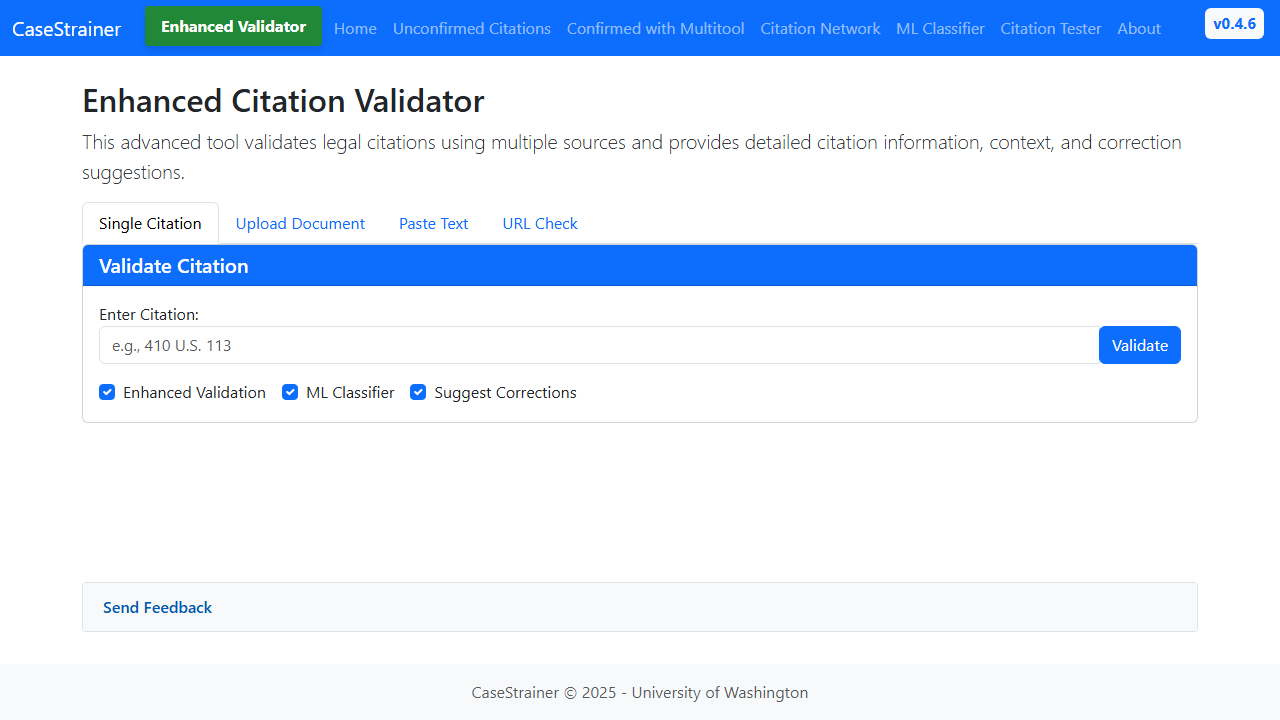
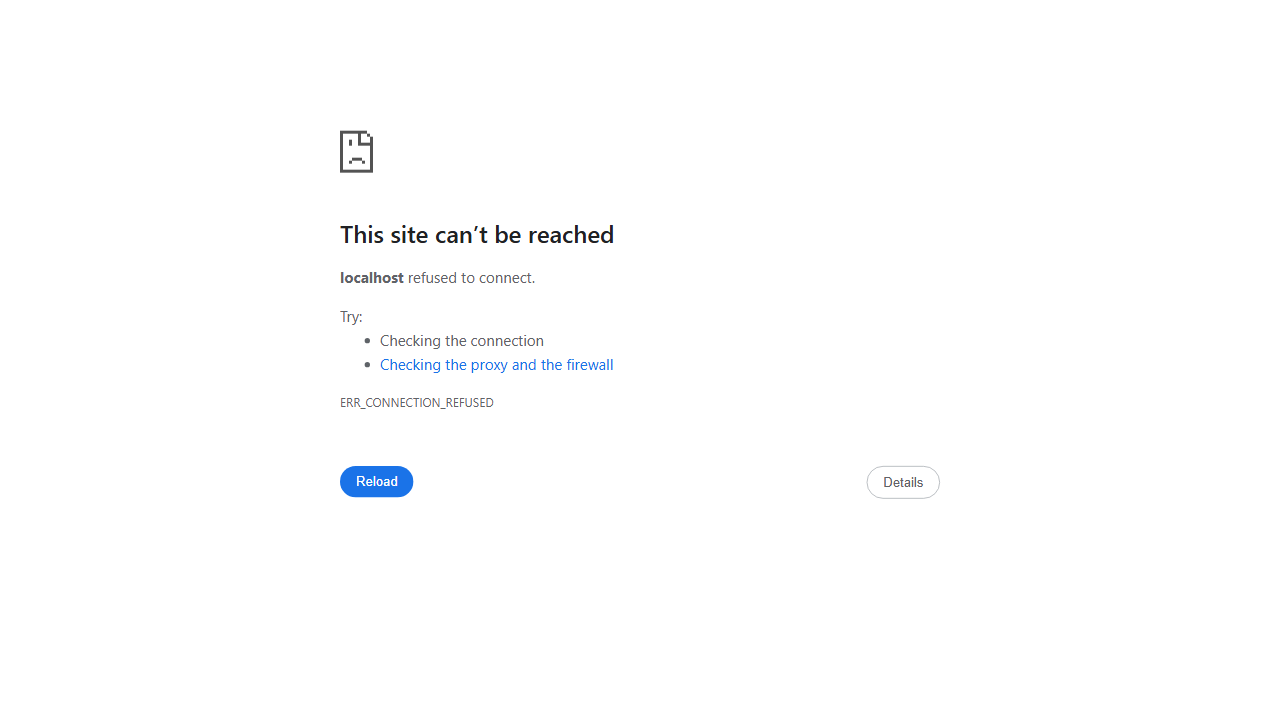
Fix Docker health checks, unify import paths, and ensure production container naming consistency

diff --git a/tests/test_flask_mail.py b/tests/test_flask_mail.py
@@ -35,38 +35,39 @@ def test_email():
     print(f"Default sender: {app.config['MAIL_DEFAULT_SENDER']}")
 
     try:
-        # Create message
-        recipient = "jafrank@uw.edu"
-        print(f"Preparing email to: {recipient}")
+        with app.app_context():
+            # Create message
+            recipient = "jafrank@uw.edu"
+            print(f"Preparing email to: {recipient}")
 
-        msg = Message(
-            subject="Test Email from CaseStrainer (Flask-Mail)",
-            recipients=[recipient],
-            html="""
-            <h2>This is a test email from CaseStrainer</h2>
-            <p>If you're reading this, the Flask-Mail configuration is working correctly with UW SMTP!</p>
-            """,
-        )
+            msg = Message(
+                subject="Test Email from CaseStrainer (Flask-Mail)",
+                recipients=[recipient],
+                html="""
+                <h2>This is a test email from CaseStrainer</h2>
+                <p>If you're reading this, the Flask-Mail configuration is working correctly with UW SMTP!</p>
+                """,
+            )
 
-        print("Sending email...")
-        mail.send(msg)
-        print("✅ Email sent successfully!")
+            print("Sending email...")
+            mail.send(msg)
+            print("✅ Email sent successfully!")
 
-        return jsonify(
-            {
-                "status": "success",
-                "message": "Test email sent successfully!",
-                "details": {
-                    "server": app.config["MAIL_SERVER"],
-                    "port": app.config["MAIL_PORT"],
-                    "username": app.config["MAIL_USERNAME"],
-                    "sender": app.config["MAIL_DEFAULT_SENDER"],
-                    "recipient": recipient,
-                    "tls": app.config["MAIL_USE_TLS"],
-                    "ssl": app.config["MAIL_USE_SSL"],
-                },
-            }
-        )
+            return jsonify(
+                {
+                    "status": "success",
+                    "message": "Test email sent successfully!",
+                    "details": {
+                        "server": app.config["MAIL_SERVER"],
+                        "port": app.config["MAIL_PORT"],
+                        "username": app.config["MAIL_USERNAME"],
+                        "sender": app.config["MAIL_DEFAULT_SENDER"],
+                        "recipient": recipient,
+                        "tls": app.config["MAIL_USE_TLS"],
+                        "ssl": app.config["MAIL_USE_SSL"],
+                    },
+                }
+            )
 
     except Exception as e:
         error_msg = f"❌ Failed to send email: {str(e)}"

diff --git a/src/healthcheck_rq.py b/src/healthcheck_rq.py
@@ -6,59 +6,13 @@ Checks if the worker is connected to Redis and can process jobs
 
 import sys
 import os
-import time
+from redis import Redis
 
-# Add the src directory to Python path
-sys.path.insert(0, os.path.join(os.path.dirname(__file__), '..'))
-
-def check_rq_worker_health():
-    """Check if RQ worker is healthy"""
-    try:
-        from redis import Redis
-        from rq import Queue, Worker
-        
-        # Get Redis connection from environment
-        redis_url = os.environ.get('REDIS_URL', 'redis://casestrainer-redis-prod:6379/0')
-        if redis_url.startswith('redis://'):
-            from urllib.parse import urlparse
-            parsed = urlparse(redis_url)
-            redis_host = parsed.hostname or 'localhost'
-            redis_port = parsed.port or 6379
-            redis_db = int(parsed.path.lstrip('/')) if parsed.path else 0
-        else:
-            redis_host = 'localhost'
-            redis_port = 6379
-            redis_db = 0
-        
-        # Connect to Redis
-        redis_conn = Redis(host=redis_host, port=redis_port, db=redis_db)
-        redis_conn.ping()
-        
-        # Check if there are any workers
-        workers = Worker.all(connection=redis_conn)
-        if not workers:
-            logger.info("No RQ workers found")
-            return False
-        
-        # Check if at least one worker is alive
-        for worker in workers:
-            if worker.state == 'busy' or worker.state == 'idle':
-                logger.info(f"Worker {worker.name} is {worker.state}")
-                return True
-        
-        logger.info("No active workers found")
-        return False
-        
-    except Exception as e:
-        logger.error(f"Health check failed: {e}")
-        return False
-
-if __name__ == '__main__':
-    # Try multiple times with short intervals
-    for attempt in range(3):
-        if check_rq_worker_health():
-            sys.exit(0)
-        if attempt < 2:
-            time.sleep(1)
-    
+redis_url = os.environ.get('REDIS_URL', 'redis://redis:6379/0')
+try:
+    r = Redis.from_url(redis_url)
+    r.ping()
+    sys.exit(0)
+except Exception as e:
+    print(f"Health check failed: {e}")
     sys.exit(1) 

diff --git a/optimize_engine.py b/optimize_engine.py
@@ -8,6 +8,7 @@ import time
 import json
 from typing import List
 from src.comprehensive_websearch_engine import ComprehensiveWebSearchEngine
+from src.citation_utils_consolidated import generate_citation_variants, normalize_citation
 
 class EngineOptimizer:
     """Optimizer for the enhanced ComprehensiveWebSearchEngine."""
@@ -71,12 +72,12 @@ class EngineOptimizer:
         start_time = time.time()
         
         for case in test_cases:
-            variants = self.engine.citation_normalizer.generate_variants(case['citation'])
+            variants = generate_citation_variants(case['citation'])
             total_variants += len(variants)
             
             # Test normalization speed
             for _ in range(100):  # Stress test
-                self.engine.citation_normalizer.normalize_citation(case['citation'])
+                normalize_citation(case['citation'])
         
         end_time = time.time()
         duration = end_time - start_time
@@ -307,7 +308,7 @@ class EngineOptimizer:
         start_time = time.time()
         for case in test_cases:
             for _ in range(100):
-                self.engine.citation_normalizer.generate_variants(case['citation'])
+                generate_citation_variants(case['citation'])
         citation_time = time.time() - start_time
         
         # Benchmark 2: Semantic matching

diff --git a/src/case_name_extraction_core.py b/src/case_name_extraction_core.py
@@ -9,6 +9,8 @@ from typing import Dict, Optional, Tuple, List, Any
 from datetime import datetime
 from dataclasses import dataclass
 import warnings
+from src.extract_case_name import extract_case_name_from_text
+from src.extract_case_name import extract_case_name_hinted
 
 logger = logging.getLogger(__name__)
 
@@ -546,6 +548,17 @@ class DateExtractor:
 
 # Global date extractor instance
 date_extractor = DateExtractor()
+
+def extract_year_from_line(line):
+    """Extract a year from a line of text, looking for (YYYY) or any 4-digit year."""
+    import re
+    match = re.search(r'\((19|20)\d{2}\)', line)
+    if match:
+        return match.group(1)
+    match = re.search(r'(19|20)\d{2}', line)
+    if match:
+        return match.group(0)
+    return ""
 
 def test_streamlined_extractor():
     """Test the streamlined extractor"""

diff --git a/test_enhanced_engine.py b/test_enhanced_engine.py
@@ -4,6 +4,7 @@ Test script for enhanced ComprehensiveWebSearchEngine features
 """
 
 from src.comprehensive_websearch_engine import ComprehensiveWebSearchEngine
+from src.citation_utils_consolidated import generate_citation_variants
 
 def test_enhanced_features():
     """Test the enhanced engine features."""
@@ -16,7 +17,7 @@ def test_enhanced_features():
     # Test 1: Enhanced Citation Normalization
     print("\n1. Testing Enhanced Citation Normalization:")
     test_citation = "200 Wn.2d 72"
-    variants = engine.citation_normalizer.generate_variants(test_citation)
+    variants = generate_citation_variants(test_citation)
     print(f"   Original: {test_citation}")
     print(f"   Generated {len(variants)} variants:")
     for i, variant in enumerate(variants[:5]):  # Show first 5

diff --git a/test_phase2_features.py b/test_phase2_features.py
@@ -5,6 +5,7 @@ Test script for Phase 2 enhanced ComprehensiveWebSearchEngine features
 
 import asyncio
 from src.comprehensive_websearch_engine import ComprehensiveWebSearchEngine
+from src.citation_utils_consolidated import generate_citation_variants
 
 async def test_phase2_features():
     """Test the Phase 2 enhanced engine features."""
@@ -79,7 +80,7 @@ async def test_phase2_features():
     # Test 4: Enhanced Citation Normalization (Phase 1 + 2)
     print("\n4. Testing Enhanced Citation Normalization:")
     test_citation = "200 Wn.2d 72"
-    variants = engine.citation_normalizer.generate_variants(test_citation)
+    variants = generate_citation_variants(test_citation)
     print(f"   Original: {test_citation}")
     print(f"   Generated {len(variants)} enhanced variants")
     

diff --git a/test_phase3_features.py b/test_phase3_features.py
@@ -5,6 +5,7 @@ Test script for Phase 3 advanced ComprehensiveWebSearchEngine features
 
 import asyncio
 from src.comprehensive_websearch_engine import ComprehensiveWebSearchEngine
+from src.citation_utils_consolidated import generate_citation_variants
 
 async def test_phase3_features():
     """Test the Phase 3 advanced engine features."""
@@ -91,7 +92,7 @@ async def test_phase3_features():
     print("\n4. Testing Full Integration:")
     
     # Test enhanced citation normalization (Phase 1)
-    variants = engine.citation_normalizer.generate_variants(test_citation)
+    variants = generate_citation_variants(test_citation)
     print(f"   Enhanced citation variants: {len(variants)} generated")
     
     # Test semantic matching (Phase 2)

diff --git a/scripts/analyze_briefs.py b/scripts/analyze_briefs.py
@@ -14,7 +14,7 @@ import re
 # Import CaseStrainer functions
 from file_utils import extract_text_from_file
 from app_final_vue import extract_citations
-from multi_source_verifier import MultiSourceVerifier
+from src.enhanced_multi_source_verifier import EnhancedMultiSourceVerifier
 
 # Constants
 BRIEFS_DIR = "downloaded_briefs"
@@ -217,7 +217,7 @@ def main():
     print("Starting Supreme Court Brief Citation Analyzer...")
 
     # Create a MultiSourceVerifier
-    verifier = MultiSourceVerifier()
+    verifier = EnhancedMultiSourceVerifier()
 
     # Load briefs from CSV
     briefs = load_briefs_from_csv()

diff --git a/tests/test_pdf_handler.py b/tests/test_pdf_handler.py
@@ -77,7 +77,8 @@ class TestPDFHandler:
         """Test initialization with default configuration."""
         handler = PDFHandler()
         assert handler.config.timeout == 25
-        assert handler.config.preferred_method == PDFExtractionMethod.PYPDF2
+        # Update to match the actual default method in PDFHandler
+        assert handler.config.preferred_method == PDFExtractionMethod.PDFMINER
         assert handler.config.use_fallback is True
         
     def test_init_custom_config(self):

diff --git a/src/citation_extractor.py b/src/citation_extractor.py
@@ -42,7 +42,7 @@ except ImportError:
     EYECITE_AVAILABLE = False
 
 # Updated: Use the unified verify_citation from enhanced_multi_source_verifier
-from unified_citation_processor_v2 import UnifiedCitationProcessorV2 as UnifiedCitationProcessor
+from src.unified_citation_processor_v2 import UnifiedCitationProcessorV2 as UnifiedCitationProcessor
 from src.extract_case_name import (
     extract_case_name_triple_from_text, 
     extract_case_name_from_context_unified,

diff --git a/test_date_name_extraction.py b/test_date_name_extraction.py
@@ -11,7 +11,7 @@ import json
 # Add the src directory to the path
 sys.path.insert(0, os.path.join(os.path.dirname(__file__), 'src'))
 
-from enhanced_multi_source_verifier import EnhancedMultiSourceVerifier
+from src.enhanced_multi_source_verifier import EnhancedMultiSourceVerifier
 
 async def test_date_name_extraction():
     """Test date and name extraction functionality."""

diff --git a/test_process_courtlistener.py b/test_process_courtlistener.py
@@ -7,7 +7,7 @@ import sys
 import os
 sys.path.append(os.path.join(os.path.dirname(__file__), 'src'))
 
-from enhanced_multi_source_verifier import EnhancedMultiSourceVerifier
+from src.enhanced_multi_source_verifier import EnhancedMultiSourceVerifier
 
 def test_process_courtlistener_result():
     """Test the _process_courtlistener_result method directly."""
